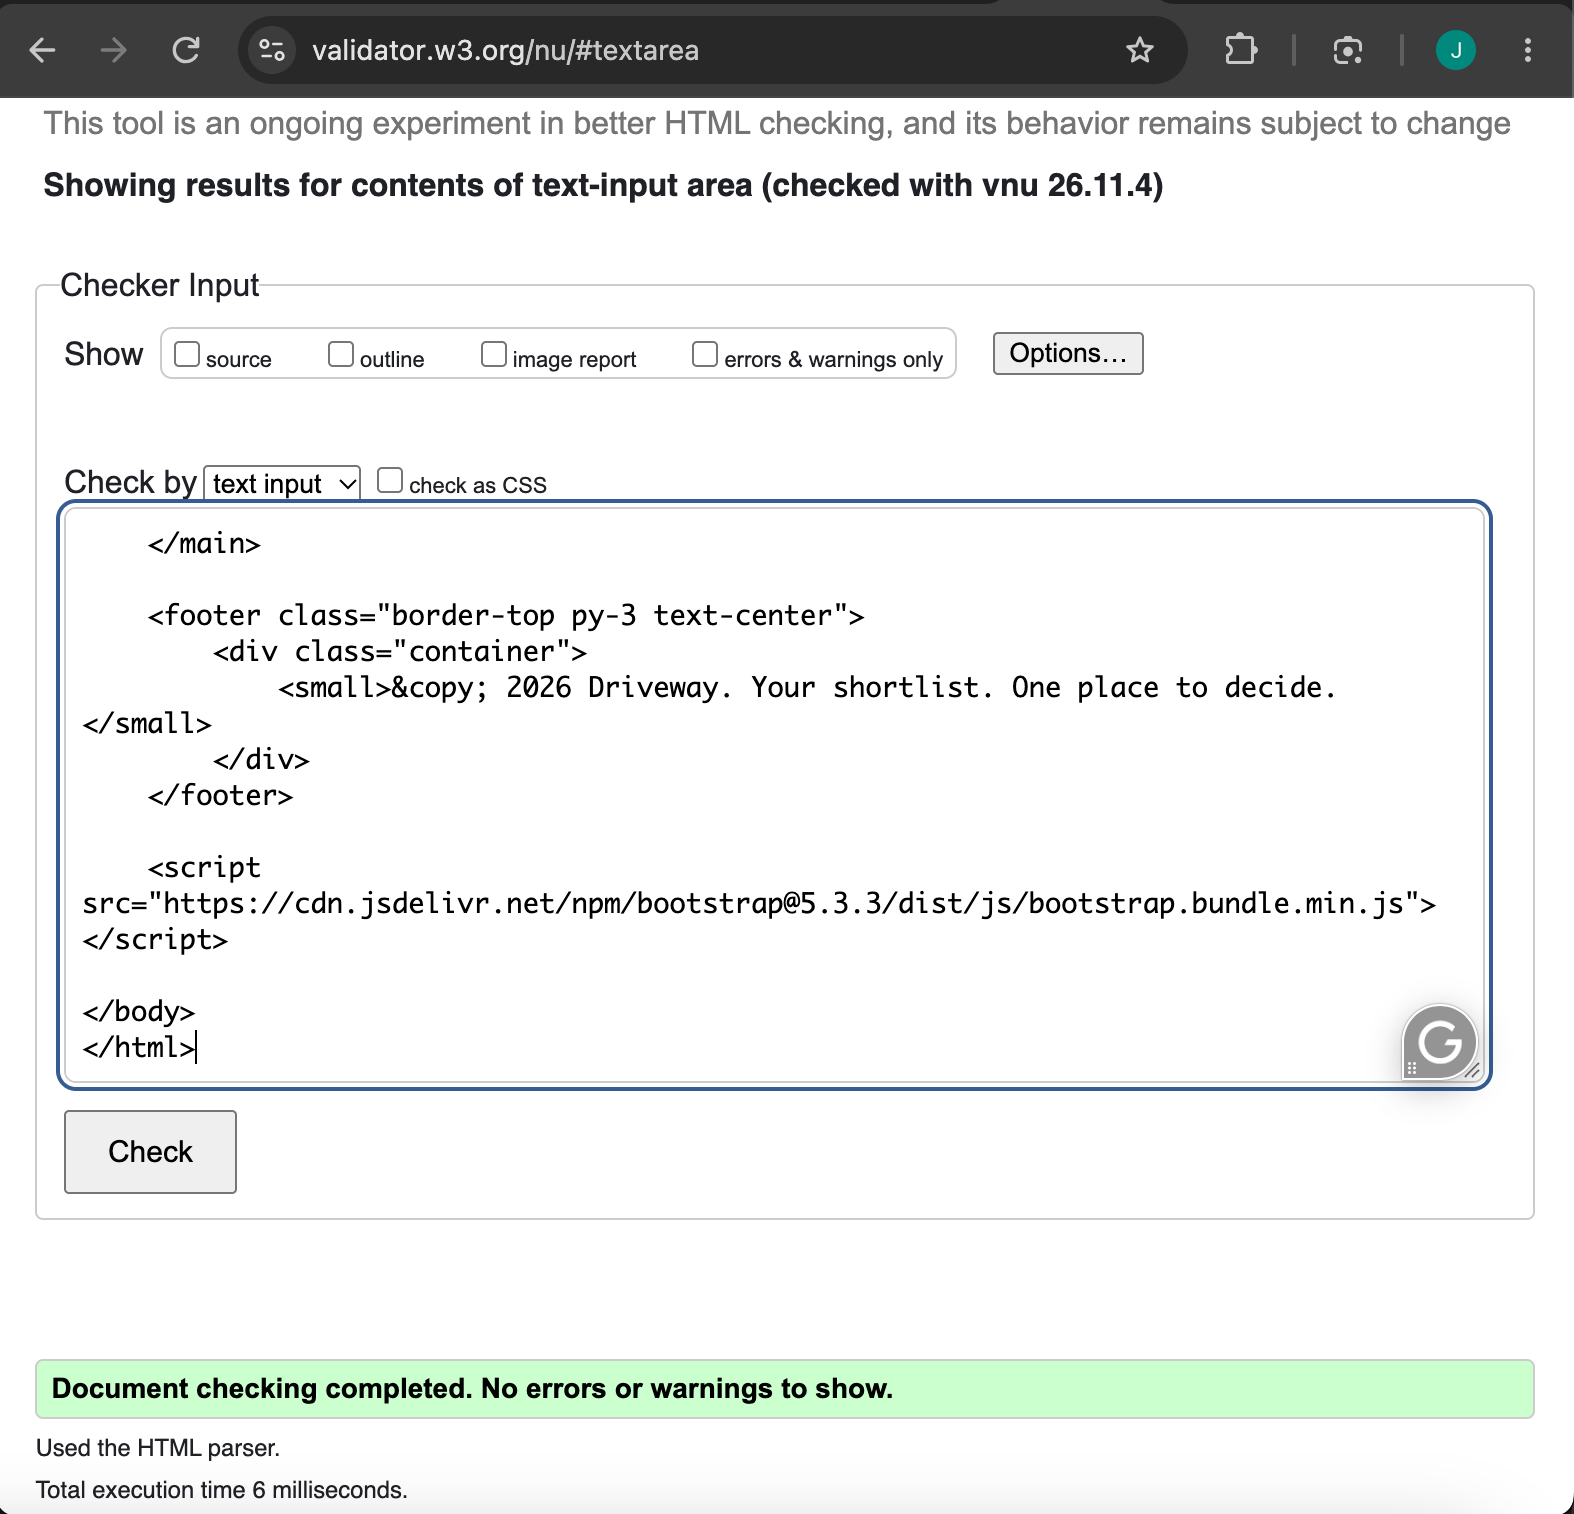
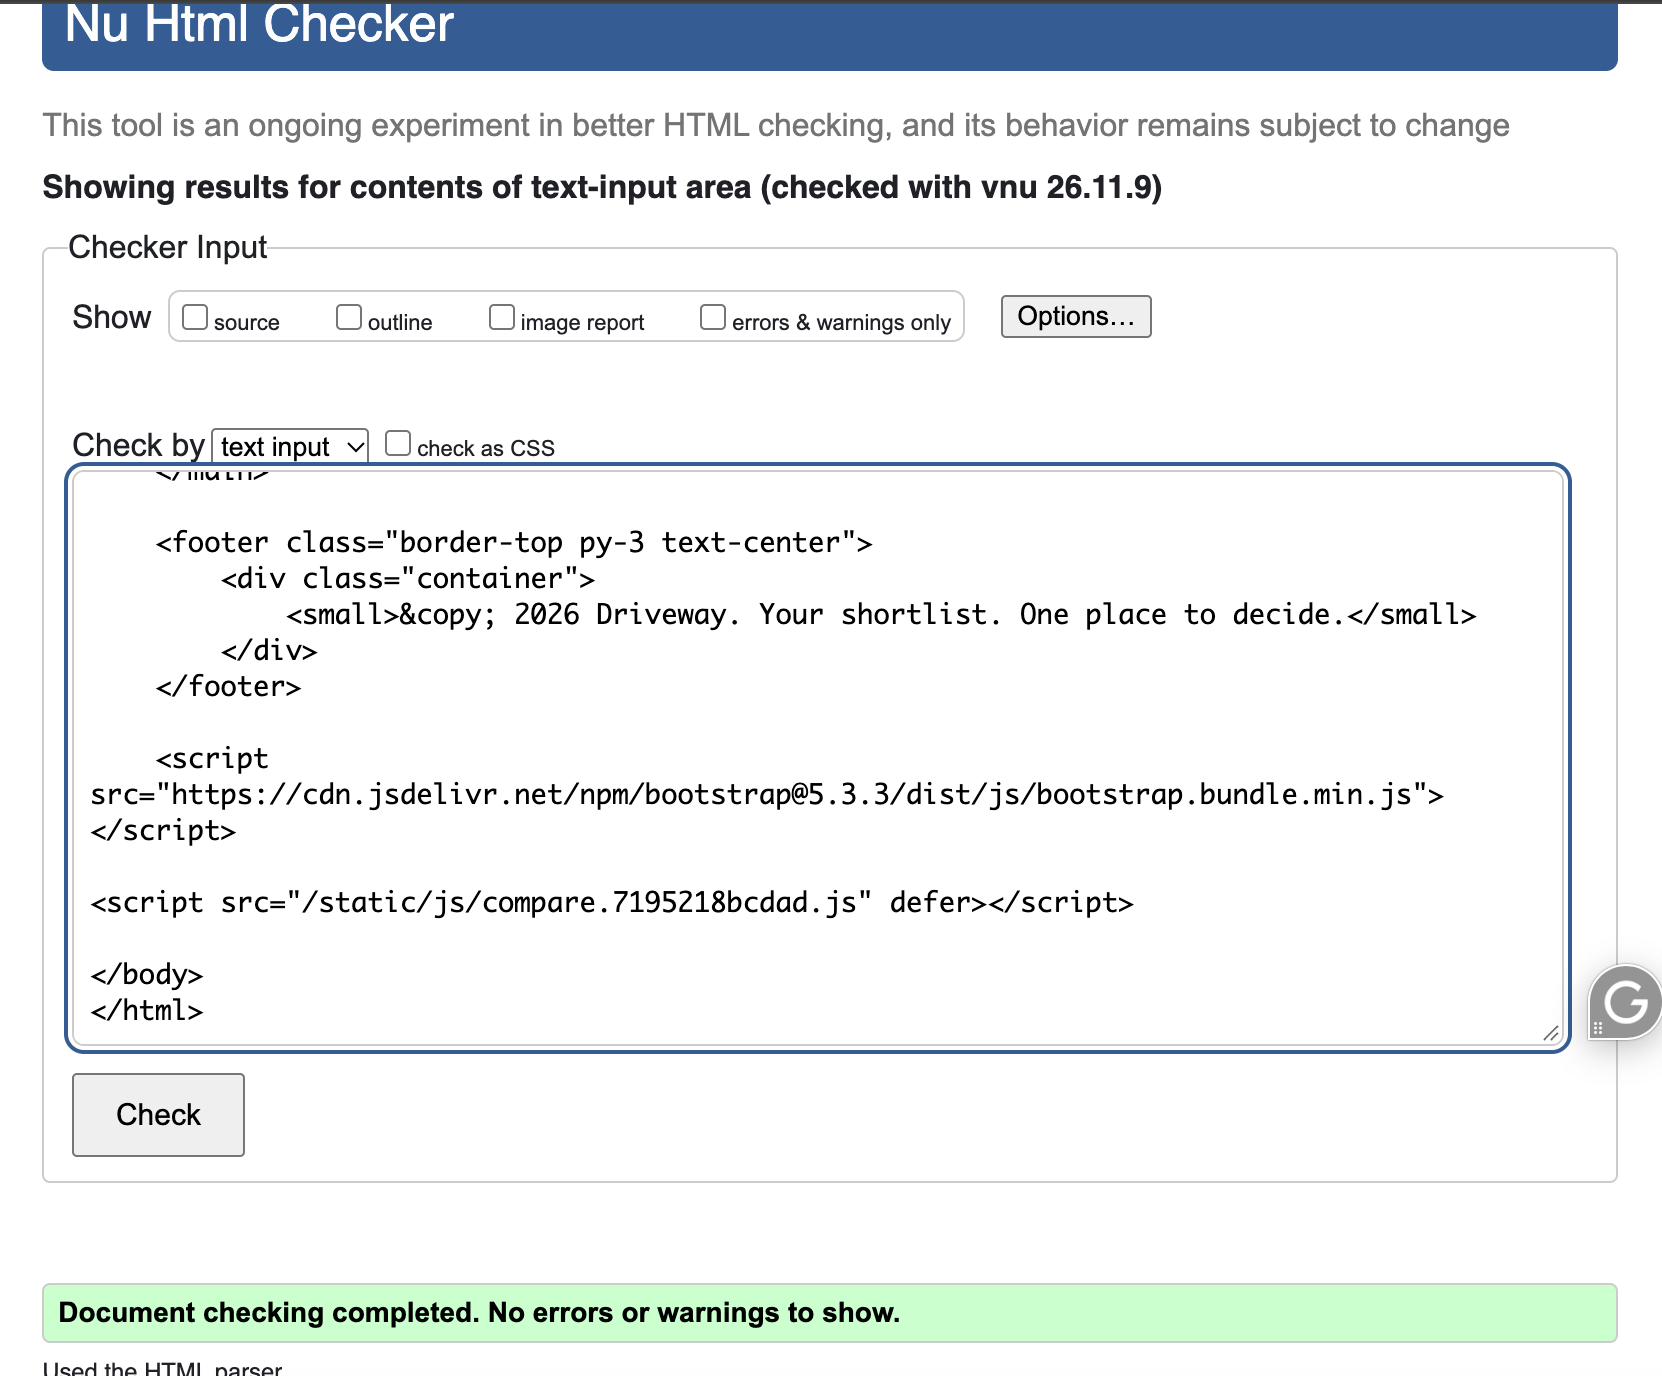
Finalize testing evidence and clarify photo upload limits

diff --git a/templates/cars/car_form.html b/templates/cars/car_form.html
@@ -40,7 +40,7 @@
                 {% endfor %}
 
                 <p class="text-secondary small">
-                    Photos: JPG, PNG or WebP, smaller than 5 MB.
+                    Photos: JPG, PNG or WebP, 5 MiB or less.
                     Listing URL, photo and notes are optional.
                 </p>
 

diff --git a/cars/forms.py b/cars/forms.py
@@ -48,7 +48,7 @@ class CarForm(forms.ModelForm):
         if photo and hasattr(photo, "content_type"):
             if photo.size > 5 * 1024 * 1024:
                 raise forms.ValidationError(
-                    "Choose an image smaller than 5 MB."
+                    "Choose an image 5 MiB or less."
                 )
             if photo.content_type not in (
                 "image/jpeg", "image/png", "image/webp"

diff --git a/docs/testing.md b/docs/testing.md
@@ -29,14 +29,22 @@ form validation.
 | Test | Expected result | Result |
 | --- | --- | --- |
 | Homepage | Page and styling load correctly | Pass |
-| Registration | Account created and shortlist opens | Pass |
+| Fresh registration | Account created and shortlist opens | Pass |
+| Log out | User logged out successfully | Pass |
+| Log in | User logged in successfully | Pass |
+| Duplicate username, mismatched passwords or empty required registration fields | Registration is rejected | Pass |
+| Invalid login credentials | A generic error is shown | Pass |
+| HTTP redirect | HTTP request returns 301 with Location pointing to HTTPS URL | Pass |
 | Create car with photo | Car details and photograph display | Pass |
 | Persistence after Heroku restart | Saved car and photograph remain available | Pass |
-| Edit car | Updated price is saved and displayed | Pass |
+| Edit price | Updated price is saved and displayed | Pass |
+| Negative car price or invalid listing URL | Input is rejected and other entered details are preserved | Pass |
+| Non-image upload or image over 5 MB | Upload is rejected | Pass |
 | Cancel deletion | Car remains saved | Pass |
 | Confirm deletion | Car card disappears from shortlist | Pass |
 | Compare two cars | Both cars and correct details appear | Pass |
 | Compare three cars | All three cars appear | Pass |
+| Select a fourth car | Fourth selection is prevented | Pass |
 | Compare one car | Selection validation message appears | Pass |
 | Compare no cars | Selection validation message appears | Pass |
 | Logged-out car access | Redirect to login | Pass |
@@ -44,6 +52,9 @@ form validation.
 | Another user's detail URL | Return 404 | Pass |
 | Another user's edit URL | Return 404 | Pass |
 | Another user's delete URL | Return 404 | Pass |
+
+Chrome cookie inspection confirmed that both `sessionid` and `csrftoken`
+had the Secure flag checked.
 
 ### JavaScript and Keyboard Interaction
 
@@ -65,6 +76,7 @@ form validation.
 | Mobile comparison | Car cards stack without horizontal overflow | Pass |
 | Chrome | Tested account, car-management and comparison journeys work | Pass |
 | Safari | Login, add, edit, delete, comparison, selection feedback and logout work | Pass |
+| Account forms on mobile and with keyboard navigation | Forms remain usable | Pass |
 
 ## Automated Testing
 
@@ -122,7 +134,7 @@ template code.
 | Homepage | No errors or warnings | [Homepage validation](screenshots/html-validation-home.png) |
 | Registration | Passed | [Registration validation](screenshots/html-validation-register.png) |
 | Login | Passed | [Login validation](screenshots/html-validation-login.png) |
-| Shortlist | Passed before the JavaScript template changes; recheck pending | [Shortlist validation](screenshots/html-validation-shortlist.png) |
+| Shortlist | No errors or warnings | [Shortlist validation](screenshots/html-validation-shortlist.png) |
 | Add car | Passed | [Add-car validation](screenshots/html-validation-add-car.png) |
 | Edit car | Passed | [Edit-car validation](screenshots/html-validation-edit-car.png) |
 | Car details | Passed | [Car-details validation](screenshots/html-validation-car-detail.png) |
@@ -194,9 +206,6 @@ interaction is fully accessible.
 | Python formatting warnings | Corrected whitespace, final newlines and line wrapping; validation then passed. |
 | JSHint conditional-expression warning | Replaced the expression with an equivalent `if/else`; validation then passed. |
 
-### Final Checks Outstanding
+### Evidence Review
 
-- Repeat HTML validation for the updated shortlist following the
-  addition of the selection status and script.
-- Confirm that all screenshot links in this document open the
-  correct evidence.
+All linked screenshots were visually checked and are readable.

diff --git a/docs/project-log.md b/docs/project-log.md
@@ -78,6 +78,7 @@ and comparison.
 Photo sliders, driveway visualisation and registration-number lookup
 also remain future features. The README and backlog distinguish
 these plans from implemented functionality.
+Automatic listing imports and upload previews are also future work.
 
 ## JavaScript Enhancement
 
@@ -121,21 +122,36 @@ these plans from implemented functionality.
 - Added the wireframe image and full-size link.
 - Replaced the duplicated project-log content in the backlog with
   priorities and remaining tasks.
-
-The automated suite does not cover registration form processing.
-Registration therefore requires a fresh live check after deploying
-the password-validator correction.
+- Successfully deployed commit `d88e450` to Heroku.
+- Verified fresh registration, logout and login on the deployed site.
+- Verified an HTTP request returned 301 with its Location pointing
+  to the HTTPS URL.
+- Verified deployed car photo upload, price editing, comparison of two
+  and three cars, prevention of a fourth selection, and cancel and
+  confirmed deletion.
+- Verified in Chrome that both `sessionid` and `csrftoken` had Secure
+  checked.
+- Verified registration rejects duplicate usernames, mismatched
+  passwords and empty required fields, and invalid login attempts show
+  a generic error.
+- Verified account forms work with keyboard navigation and on mobile.
+- Verified negative car prices and invalid listing URLs are rejected
+  while preserving other entered details.
+- Verified non-image uploads and images larger than 5 MiB are rejected.
+- Visually checked all linked screenshots and confirmed they are readable.
+- Reviewed the seven GitHub stories and marked the implemented scope
+  complete.
+- Revalidated the updated rendered shortlist with Nu HTML Checker;
+  no errors or warnings were reported.
+- Automated tests still do not cover registration form processing.
 
 ## Remaining Verification
 
-- Deploy the latest settings corrections.
-- Verify HTTPS redirection, registration, login and core actions
-  on the final deployed version.
-- Revalidate the updated shortlist HTML.
-- Check documentation links, screenshot evidence and image credits.
-- Review database documentation and setup instructions.
-- Reconcile the project board with completed and deferred work.
+- Review image credits.
 - Complete final repository and submission checks.
+
+Database documentation and setup instructions were reviewed against
+the current configuration. A fresh installation was not tested.
 
 ## AI Use
 

diff --git a/docs/backlog.md b/docs/backlog.md
@@ -25,12 +25,16 @@ User stories and acceptance criteria are tracked on the
 
 ## Remaining Submission Tasks
 
-- [ ] Deploy the latest password-validator, middleware and HTTPS settings fixes.
-- [ ] Verify registration, login, HTTPS redirection and core actions after deployment.
-- [ ] Revalidate the updated shortlist HTML and update its evidence.
-- [ ] Verify documentation links, screenshot files and image credits.
-- [ ] Review database documentation and setup instructions.
-- [ ] Update the project log and reconcile the GitHub board.
+- [x] Deploy the password-validator, middleware and HTTPS settings corrections.
+- [x] Verify fresh registration, logout, login and HTTP-to-HTTPS redirection.
+- [x] Revalidate the updated shortlist HTML; Nu HTML Checker reported no errors or warnings.
+- [x] Verify deployed car photo upload, price editing, two- and three-car comparison, fourth-selection prevention, and cancel/confirmed deletion.
+- [x] Verify in Chrome that `sessionid` and `csrftoken` both had Secure checked.
+- [x] Verify registration validation, generic invalid-login feedback, keyboard/mobile account forms, invalid car details, and invalid photo uploads.
+- [x] Verify documentation links and screenshot file targets; visually review all linked screenshots for readability.
+- [ ] Review image credits.
+- [x] Review database documentation and setup instructions against the configuration; a fresh installation was not tested.
+- [x] Review the seven GitHub stories and mark the implemented scope complete.
 - [ ] Complete the final repository and submission checks.
 
 ## Deferred Features
@@ -43,6 +47,7 @@ and user needs.
 | --- | --- |
 | Import specifications and photographs from a single listing URL | Reduce manual entry |
 | Multiple photographs per car | Show more detail about each vehicle |
+| Preview an uploaded photograph before saving | Let users confirm the selected image |
 | Smooth transitions between vehicles | Improve browsing and comparison |
 | Scrolling exterior-to-interior galleries | Present available listing photographs in a guided sequence |
 | Personal driveway photograph uploads | Let users visualise cars in their own space |

diff --git a/README.md b/README.md
@@ -117,10 +117,16 @@ on a GitHub Projects board, using **Todo**, **In Progress** and **Done**.
 - [Prioritised backlog](docs/backlog.md)
 - [Development log](docs/project-log.md)
 
+![Final project board](docs/screenshots/agile-board-final.png)
+
 ## Testing
 
 Manual testing covered account actions, car management, comparison,
 ownership restrictions, responsive layouts and browser behaviour.
+
+Additional confirmed checks included account-form validation, keyboard
+and mobile use, car-form and photo-upload validation, and secure cookies
+on the deployed site. Linked screenshots were visually checked.
 
 The automated suite contains **14 passing Django tests**, covering:
 
@@ -283,6 +289,7 @@ availability of suitable exterior and interior photographs.
 
 - Support multiple photographs for each saved car.
 - Add sliding photograph views for browsing shortlisted vehicles.
+- Show an upload preview before saving a car.
 
 ### Vehicle Lookup
 
@@ -299,3 +306,14 @@ Their priorities and feasibility will be reviewed in the
 The automated suite covers selected application behaviours rather
 than every possible input or integration. It runs against SQLite;
 the deployed PostgreSQL and Cloudinary integrations were tested manually.
+
+### Known Limitations
+
+Deleting a car removes its database record, but its uploaded photo may remain in storage. Automatic orphaned-file cleanup is planned.
+
+### Car photographs
+
+Car photographs used in demonstration records and project screenshots
+were sourced from listings on [CarGurus](https://www.cargurus.co.uk/).
+Images belong to their respective owners. Driveway does not
+automatically import images from CarGurus.
